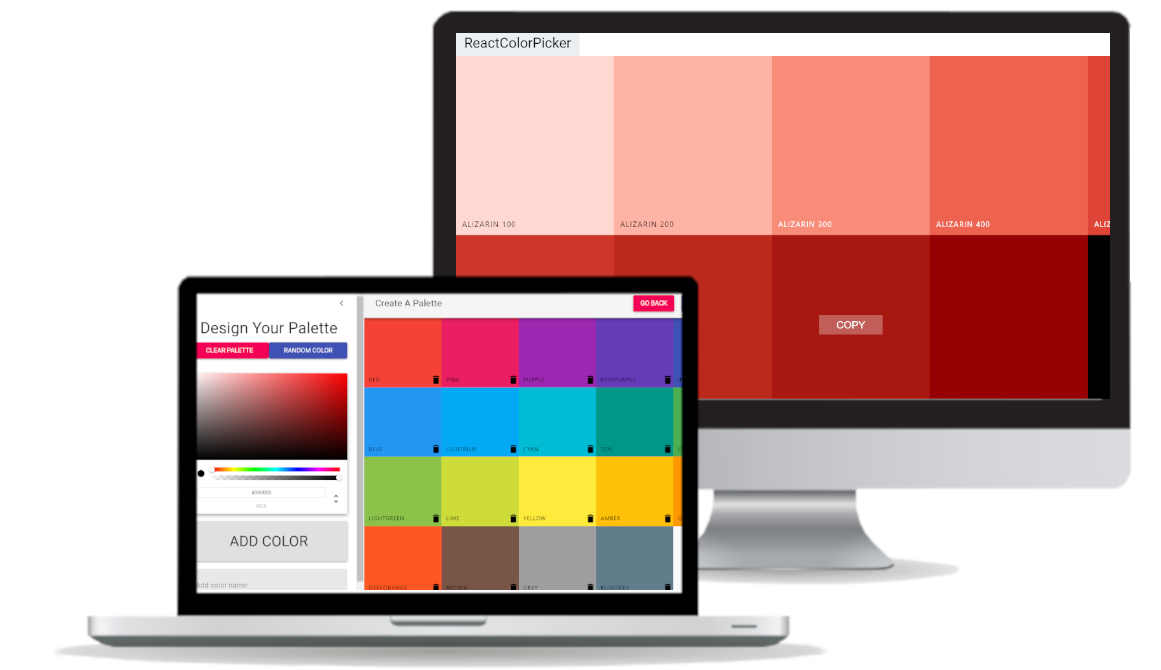
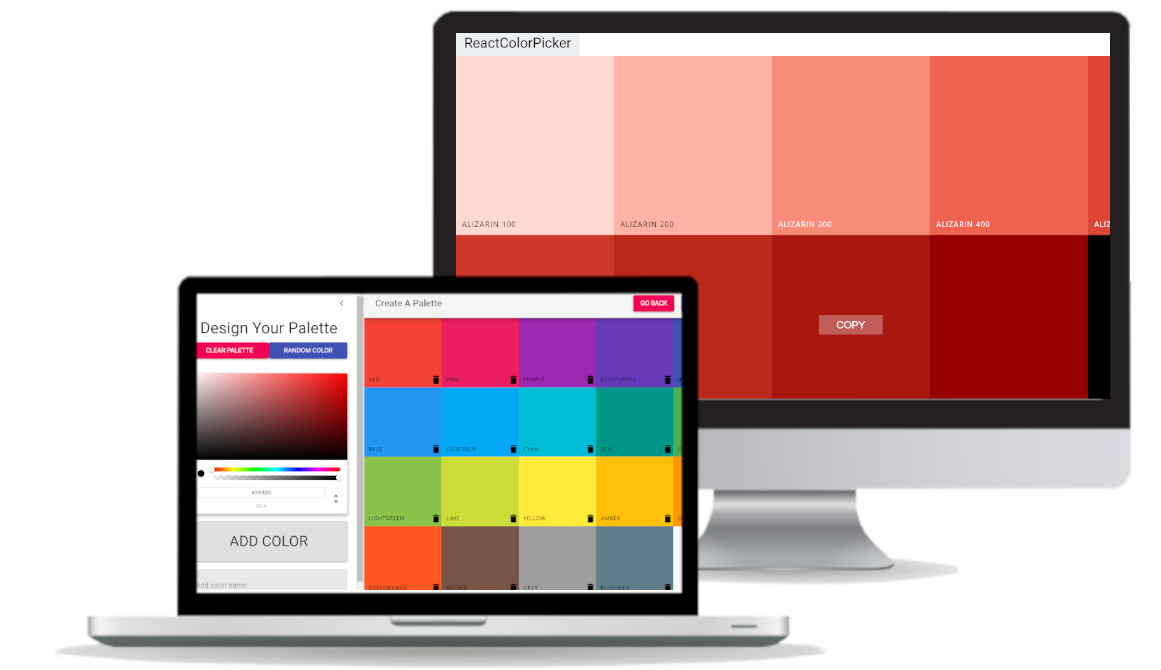
change react color

diff --git a/index.html b/index.html
@@ -119,7 +119,7 @@
                         <button>View Code</button>
                     </a>
                 </div>
-                <img src="./images/reactcolor.png" alt="Image of React Color Picker App displayed  on a Desktop monitor and laptop monitor">
+                <img src="./images/react.jpg" alt="Image of React Color Picker App displayed  on a Desktop monitor and laptop monitor">
             </div>
         </section>
 
